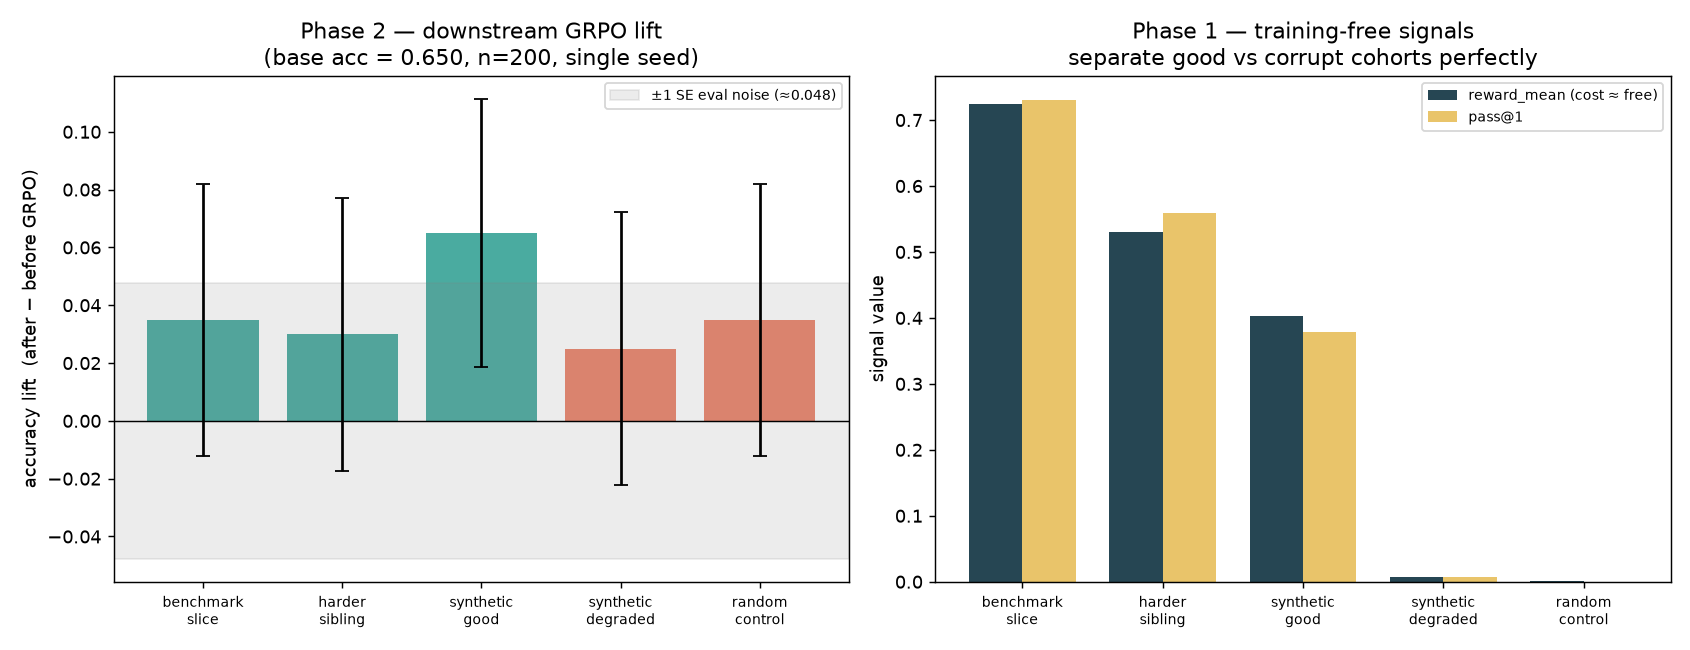
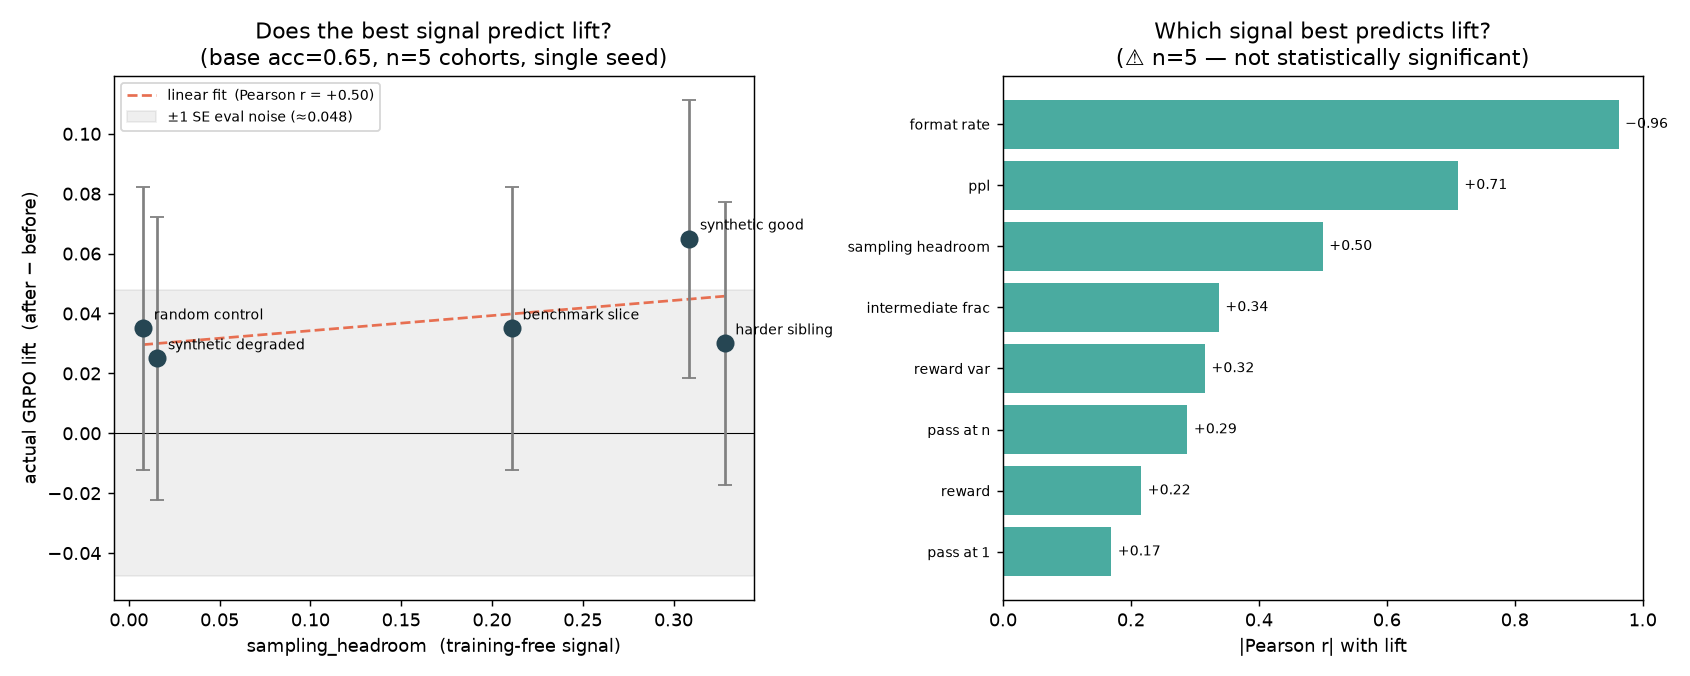
analyze.py: replace results figure with the signal->lift money plot
- left panel: best theory-motivated signal (sampling_headroom) vs actual lift,
  with lift error bars, fit line, and Pearson r — the correlation we set out to measure
- right panel: |Pearson r| with lift across all 8 signals (flags the spurious
  n=5 format_rate winner)
- README: caption explaining how to read it

diff --git a/analyze.py b/analyze.py
@@ -50,46 +50,68 @@ def pearson(x, y):
     return cov / (sx * sy) if sx * sy else float("nan")
 
 
+SIGNALS = ["reward_mean_mean", "reward_var_mean", "pass_at_1_mean",
+           "pass_at_n_mean", "sampling_headroom_mean", "ppl_mean",
+           "intermediate_frac", "format_rate_mean"]
+
+
 def figure(base, rows):
     import matplotlib
     matplotlib.use("Agg")
     import matplotlib.pyplot as plt
     import numpy as np
 
-    names = [r["cohort"].replace("_", "\n") for r in rows]
     lifts = np.array([r["lift"] for r in rows])
     lse = np.array([r["lift_se"] for r in rows])
-    reward = np.array([r["reward_mean_mean"] for r in rows])
-    p1 = np.array([r["pass_at_1_mean"] for r in rows])
-    x = np.arange(len(rows))
+    short = [r["cohort"].replace("_", " ") for r in rows]
 
-    fig, (ax1, ax2) = plt.subplots(1, 2, figsize=(13, 5))
+    # correlation of each signal with lift
+    corrs = {s: pearson([r[s] for r in rows], list(lifts)) for s in SIGNALS}
+    # money-plot axis: the theory-motivated signal (room RL can close), NOT the
+    # max-|r| signal — at n=5 the top |r| (format_rate) is a spurious artifact.
+    best = "sampling_headroom_mean"
 
-    # left: post-GRPO lift with noise band
-    colors = ["#2a9d8f", "#2a9d8f", "#2a9d8f", "#e76f51", "#e76f51"]
-    ax1.bar(x, lifts, yerr=lse, color=colors, alpha=0.85, capsize=4)
-    ax1.axhline(0, color="k", lw=0.8)
-    band = math.sqrt(se(base, 200) ** 2 * 2)
-    ax1.axhspan(-band, band, color="gray", alpha=0.15,
+    fig, (ax1, ax2) = plt.subplots(1, 2, figsize=(13, 5.2))
+
+    # LEFT: the money plot — best signal vs actual lift, with a fit line
+    xv = np.array([r[best] for r in rows])
+    ax1.errorbar(xv, lifts, yerr=lse, fmt="o", ms=9, capsize=4,
+                 color="#264653", ecolor="gray", zorder=3)
+    # least-squares fit line
+    slope, intc = np.polyfit(xv, lifts, 1)
+    xs = np.linspace(xv.min(), xv.max(), 50)
+    ax1.plot(xs, slope * xs + intc, "--", color="#e76f51",
+             label=f"linear fit  (Pearson r = {corrs[best]:+.2f})")
+    for x, y, lab in zip(xv, lifts, short):
+        ax1.annotate(lab, (x, y), fontsize=7.5, xytext=(6, 5),
+                     textcoords="offset points")
+    band = math.sqrt(se(base, rows and 200) ** 2 * 2)
+    ax1.axhspan(-band, band, color="gray", alpha=0.12,
                 label=f"±1 SE eval noise (≈{band:.3f})")
-    ax1.set_xticks(x); ax1.set_xticklabels(names, fontsize=8)
-    ax1.set_ylabel("accuracy lift  (after − before GRPO)")
-    ax1.set_title("Phase 2 — downstream GRPO lift\n(base acc = %.3f, n=200, single seed)" % base)
-    ax1.legend(fontsize=8)
+    ax1.axhline(0, color="k", lw=0.6)
+    ax1.set_xlabel(f"{best.replace('_mean', '')}  (training-free signal)")
+    ax1.set_ylabel("actual GRPO lift  (after − before)")
+    ax1.set_title("Does the best signal predict lift?\n(base acc=%.2f, n=5 cohorts, single seed)" % base)
+    ax1.legend(fontsize=8, loc="upper left")
 
-    # right: cheap signals cleanly separate data quality
-    w = 0.38
-    ax2.bar(x - w / 2, reward, w, label="reward_mean (cost ≈ free)", color="#264653")
-    ax2.bar(x + w / 2, p1, w, label="pass@1", color="#e9c46a")
-    ax2.set_xticks(x); ax2.set_xticklabels(names, fontsize=8)
-    ax2.set_ylabel("signal value")
-    ax2.set_title("Phase 1 — training-free signals\nseparate good vs corrupt cohorts perfectly")
-    ax2.legend(fontsize=8)
+    # RIGHT: |Pearson r| with lift, per signal — the correlation ranking
+    items = sorted(corrs.items(), key=lambda kv: abs(kv[1]))
+    labels = [k.replace("_mean", "").replace("_", " ") for k, _ in items]
+    vals = [abs(v) for _, v in items]
+    signs = ["+" if v >= 0 else "−" for _, v in items]
+    y = np.arange(len(items))
+    ax2.barh(y, vals, color="#2a9d8f", alpha=0.85)
+    for yi, (v, s) in enumerate(zip(vals, signs)):
+        ax2.text(v + 0.01, yi, f"{s}{v:.2f}", va="center", fontsize=8)
+    ax2.set_yticks(y); ax2.set_yticklabels(labels, fontsize=8)
+    ax2.set_xlim(0, 1)
+    ax2.set_xlabel("|Pearson r| with lift")
+    ax2.set_title("Which signal best predicts lift?\n(⚠ n=5 — not statistically significant)")
 
     fig.tight_layout()
     Path("report").mkdir(exist_ok=True)
     fig.savefig("report/results.png", dpi=130)
-    print("saved report/results.png")
+    print("saved report/results.png  (best signal: %s, r=%+.2f)" % (best, corrs[best]))
 
 
 def main():

diff --git a/README.md b/README.md
@@ -10,7 +10,14 @@ signals, then actually run GRPO on every cohort and measure the real accuracy
 lift. The cohort is the *only* variable — everything else (config, eval set,
 seed) is held fixed — so any difference in lift is attributable to the data.
 
-![Results](report/results.png)
+![Signal vs lift](report/results.png)
+
+> **Left:** each cohort's cheapest training-free signal (`sampling_headroom`) vs the
+> GRPO lift we actually measured — a weak positive trend (r = +0.50), but every point's
+> error bar overlaps the grey eval-noise band. **Right:** every signal ranked by its
+> correlation with lift. The n=5 "winner" (`format_rate`, −0.96) has no mechanism behind
+> it — a textbook small-sample spurious correlation, which is why we read this chart with
+> caution rather than crowning a metric.
 
 ---
 
